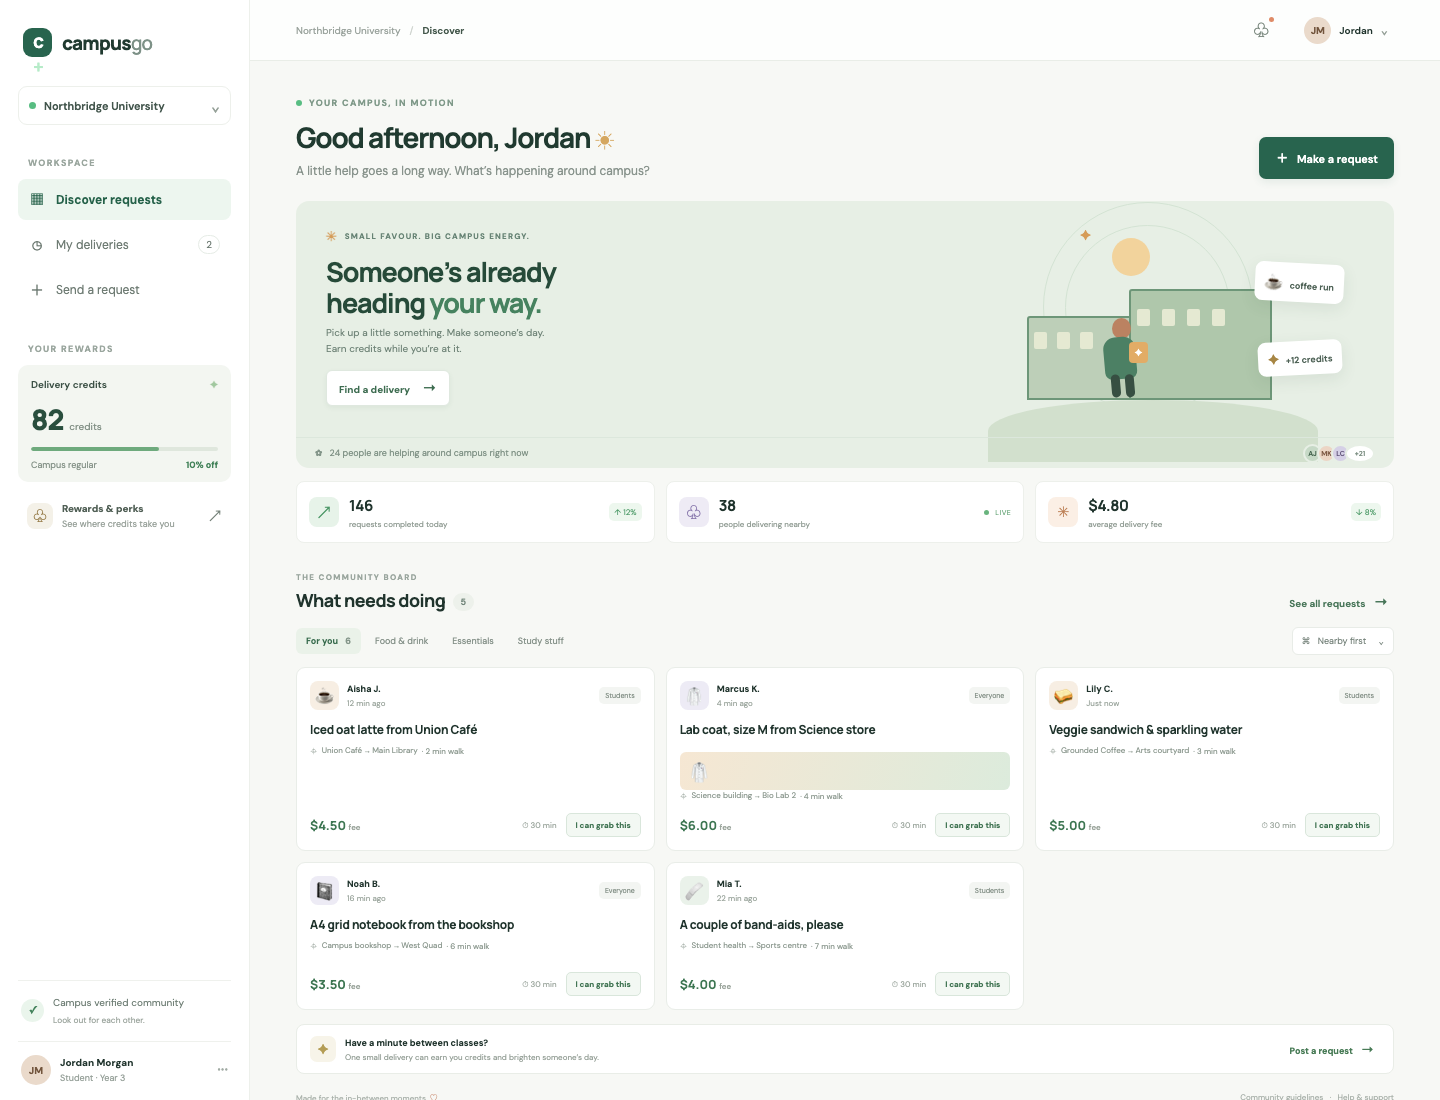
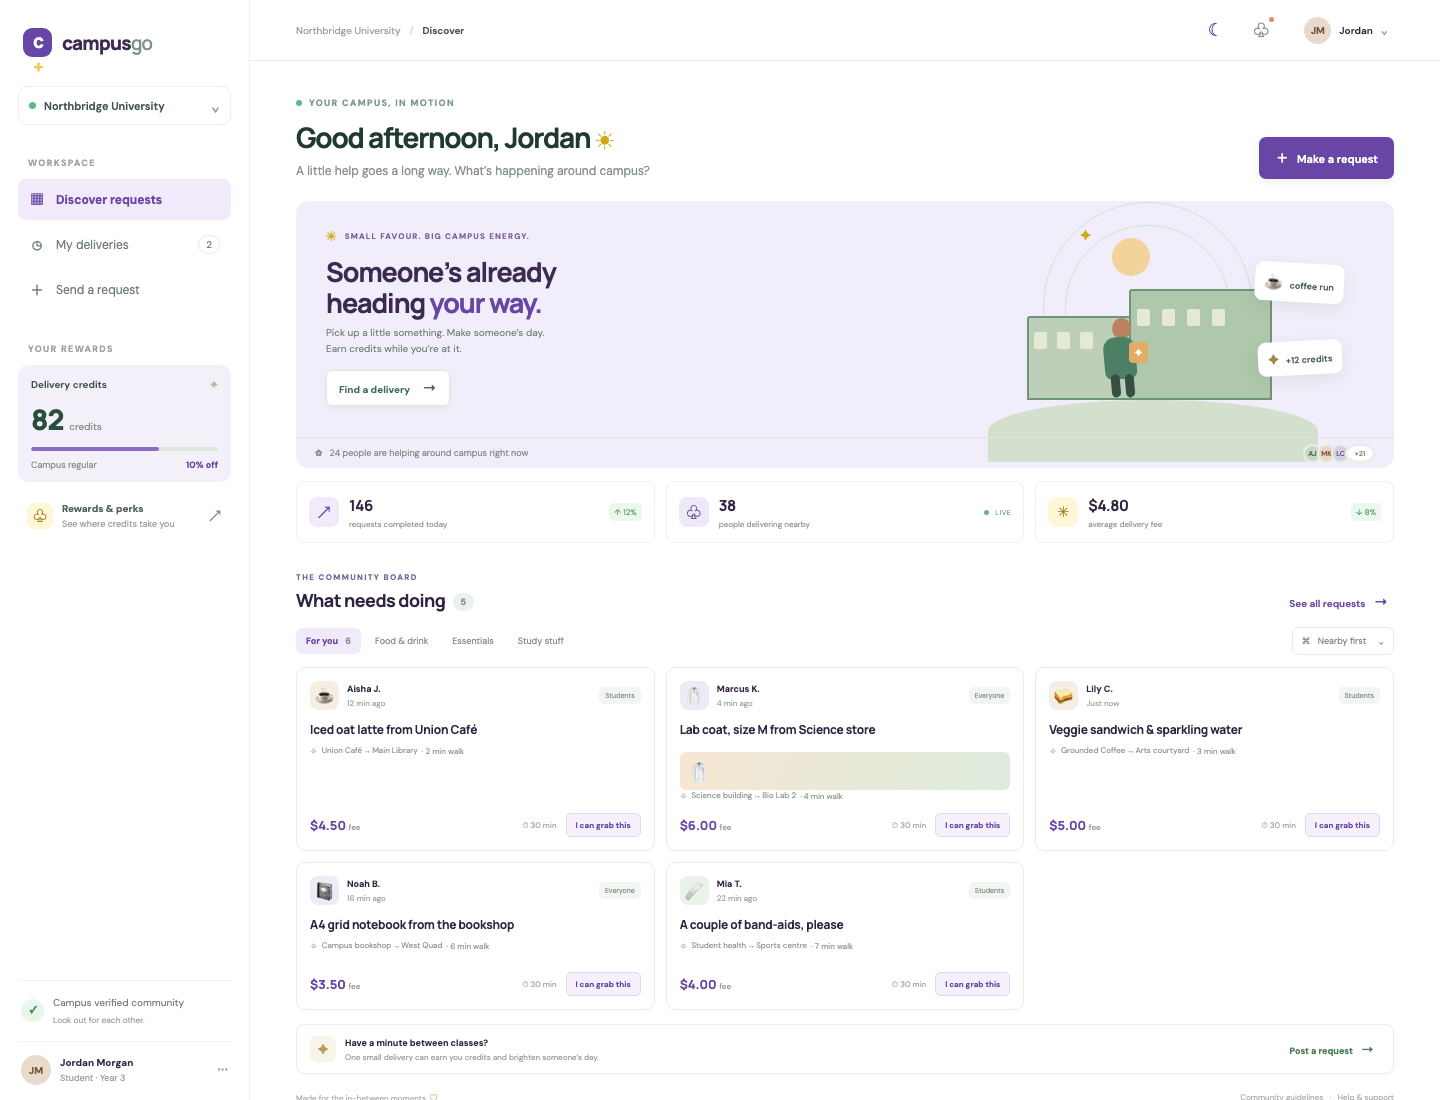
Add personal light and dark themes

diff --git a/theme.css b/theme.css
@@ -1,0 +1,109 @@
+/* CampusGo's default palette: white surfaces with purple and warm yellow accents. */
+:root {
+  --ink: #302541;
+  --deep: #3b2b51;
+  --green: #6846a5;
+  --mint: #f0eafb;
+  --paper: #ffffff;
+  --line: #ebe6f2;
+  --muted: #887f94;
+  --accent: #f2cb45;
+  --accent-soft: #fff7d8;
+  --surface: #ffffff;
+  --surface-muted: #faf8fd;
+}
+
+body { background: var(--paper); color: var(--ink); }
+.sidebar, .topbar, .stat-card, .order-card, .request-form, .settings-card,
+.profile-card, .login-card, .campus-chip, .sort-button, .nav-count,
+.hero-button, .signup-button { background-color: var(--surface); }
+.brand { color: var(--deep); }
+.brand-mark, .primary-button { background-color: #6846a5; }
+.brand-mark span { color: var(--accent); }
+.primary-button:hover { background-color: #533582; }
+.nav-item.active, .filter-tab.active { background: var(--mint); color: #6846a5; }
+.hero-card { background: #f2edfa; }
+.hero-card h2 { color: #3b2b51; }
+.hero-card h2 em, .text-link, .fee, .credit-note span:last-child { color: #6846a5; }
+.hero-kicker, .section-eyebrow { color: #78629b; }
+.hero-emoji, .welcome-row h1 span, .tiny-spark { color: #d1a817; }
+.credit-card { background: #f4f0fa; }
+.credit-meter span { background: #8d6bc6; }
+.stat-icon.mint { background: #f0eafb; color: #6846a5; }
+.stat-icon.peach, .gift-icon { background: #fff7d8; color: #9a7713; }
+.stat-icon.lavender { background: #eee8f8; color: #6846a5; }
+.take-button { background: #f5f0fb; border-color: #e2d8f1; color: #6846a5; }
+.take-button:hover { background: #ece3f7; }
+.filter-tab.active { color: #6846a5; }
+.verified-badge { color: #6846a5; background: #f0eafb; }
+.profile-cover { background: linear-gradient(120deg, #eee7f8, #f6f2fb 60%, #fff5cf); }
+.theme-toggle { color: #6846a5; font-size: 17px; }
+.theme-toggle:hover { color: #d1a817; }
+
+html[data-theme="dark"] {
+  color-scheme: dark;
+  --ink: #f2edf8;
+  --deep: #f2edf8;
+  --paper: #17131e;
+  --line: #383043;
+  --muted: #b2a9be;
+  --mint: #30263d;
+  --surface: #211c2b;
+  --surface-muted: #292335;
+  --accent: #f2d05b;
+  --accent-soft: #3c3420;
+}
+
+html[data-theme="dark"] body { background: var(--paper); color: var(--ink); }
+html[data-theme="dark"] .sidebar,
+html[data-theme="dark"] .topbar,
+html[data-theme="dark"] .stat-card,
+html[data-theme="dark"] .order-card,
+html[data-theme="dark"] .request-form,
+html[data-theme="dark"] .settings-card,
+html[data-theme="dark"] .profile-card,
+html[data-theme="dark"] .login-card,
+html[data-theme="dark"] .campus-chip,
+html[data-theme="dark"] .sort-button,
+html[data-theme="dark"] .nav-count,
+html[data-theme="dark"] .hero-button,
+html[data-theme="dark"] .signup-button { background-color: var(--surface); color: var(--ink); border-color: var(--line); }
+html[data-theme="dark"] .main-content,
+html[data-theme="dark"] .view { color: var(--ink); }
+html[data-theme="dark"] .welcome-row h1,
+html[data-theme="dark"] .page-heading h1,
+html[data-theme="dark"] .section-head h2,
+html[data-theme="dark"] .order-card h3,
+html[data-theme="dark"] .requester strong,
+html[data-theme="dark"] .settings-head h3,
+html[data-theme="dark"] .profile-main h2,
+html[data-theme="dark"] .field-label { color: var(--ink); }
+html[data-theme="dark"] .hero-card,
+html[data-theme="dark"] .preview-card { background: #2b2437; }
+html[data-theme="dark"] .hero-card h2,
+html[data-theme="dark"] .preview-card h3 { color: #f2edf8; }
+html[data-theme="dark"] .hero-card p,
+html[data-theme="dark"] .preview-card > p { color: #c4b9d2; }
+html[data-theme="dark"] .credit-card { background: #292335; color: var(--ink); }
+html[data-theme="dark"] .nav-item.active,
+html[data-theme="dark"] .filter-tab.active { background: #392c4d; color: #d7c2ff; }
+html[data-theme="dark"] .nav-item { color: #c1b8cc; }
+html[data-theme="dark"] .request-form input,
+html[data-theme="dark"] .request-form select,
+html[data-theme="dark"] .settings-card input,
+html[data-theme="dark"] .settings-card select,
+html[data-theme="dark"] .settings-card textarea,
+html[data-theme="dark"] .login-card input,
+html[data-theme="dark"] .fee-input { background: #18141f; color: var(--ink); border-color: var(--line); }
+html[data-theme="dark"] .quick-pick,
+html[data-theme="dark"] .upload-box,
+html[data-theme="dark"] .privacy-hint { background: #292335; color: #d4cadd; border-color: var(--line); }
+html[data-theme="dark"] .bottom-nudge { background: var(--surface); border-color: var(--line); }
+html[data-theme="dark"] .bottom-nudge strong,
+html[data-theme="dark"] .reward-link strong { color: var(--ink); }
+html[data-theme="dark"] .profile-cover { background: linear-gradient(120deg, #392c4d, #2b2437 60%, #3d3524); }
+html[data-theme="dark"] .profile-stats,
+html[data-theme="dark"] .settings-head,
+html[data-theme="dark"] .settings-footer,
+html[data-theme="dark"] .form-section { border-color: var(--line); }
+html[data-theme="dark"] .theme-toggle { color: #f2d05b; }

diff --git a/index.html b/index.html
@@ -4,7 +4,7 @@
   <meta charset="utf-8"><meta name="viewport" content="width=device-width, initial-scale=1"><meta name="theme-color" content="#f7f8f5">
   <title>CampusGo — good things, on the way</title>
   <link rel="preconnect" href="https://fonts.googleapis.com"><link rel="preconnect" href="https://fonts.gstatic.com" crossorigin>
-  <link href="https://fonts.googleapis.com/css2?family=DM+Sans:wght@400;500;600;700&family=Manrope:wght@400;500;600;700;800&display=swap" rel="stylesheet"><link rel="stylesheet" href="/styles.css">
+  <link href="https://fonts.googleapis.com/css2?family=DM+Sans:wght@400;500;600;700&family=Manrope:wght@400;500;600;700;800&display=swap" rel="stylesheet"><link rel="stylesheet" href="/styles.css"><link rel="stylesheet" href="/theme.css">
 </head>
 <body>
   <div class="app-shell">
@@ -23,7 +23,7 @@
       <div class="sidebar-bottom"><div class="safety-note"><span class="shield">✓</span><span>Campus verified community<br><small>Look out for each other.</small></span></div><button class="user-mini" id="profileShortcut"><span class="avatar avatar-user">JM</span><span class="user-details"><strong id="sideName">Jordan Morgan</strong><small id="sideRole">Student · Year 3</small></span><span class="more">···</span></button></div>
     </aside>
     <main class="main-content">
-      <header class="topbar"><div class="mobile-brand"><span class="brand-mark">c<span>+</span></span> campusgo</div><div class="crumb"><span>Northbridge University</span><span class="crumb-slash">/</span><strong id="crumbTitle">Discover</strong></div><div class="top-actions"><button class="icon-button notification" aria-label="Notifications">♧<i></i></button><button class="profile-trigger" id="profileButton"><span class="avatar avatar-user">JM</span><span class="profile-name" id="topName">Jordan</span><span class="chevron">⌄</span></button></div></header>
+      <header class="topbar"><div class="mobile-brand"><span class="brand-mark">c<span>+</span></span> campusgo</div><div class="crumb"><span>Northbridge University</span><span class="crumb-slash">/</span><strong id="crumbTitle">Discover</strong></div><div class="top-actions"><button class="icon-button theme-toggle" id="themeToggle" aria-label="Switch to dark mode" title="Switch theme">☾</button><button class="icon-button notification" aria-label="Notifications">♧<i></i></button><button class="profile-trigger" id="profileButton"><span class="avatar avatar-user">JM</span><span class="profile-name" id="topName">Jordan</span><span class="chevron">⌄</span></button></div></header>
       <section class="view active" id="boardView">
         <div class="welcome-row"><div><div class="eyebrow"><span class="live-dot"></span> YOUR CAMPUS, IN MOTION</div><h1 id="greeting">Good morning, Jordan <span>☀</span></h1><p class="subheading">A little help goes a long way. What’s happening around campus?</p></div><button class="primary-button" data-action="new"><span>＋</span> Make a request</button></div>
         <div class="hero-card"><div class="hero-content"><div class="hero-kicker"><span class="hero-emoji">✳</span> SMALL FAVOUR. BIG CAMPUS ENERGY.</div><h2>Someone’s already<br>heading <em>your way.</em></h2><p>Pick up a little something. Make someone’s day.<br>Earn credits while you’re at it.</p><button class="hero-button" id="heroBrowse">Find a delivery <span>→</span></button></div><div class="hero-art" aria-hidden="true"><div class="art-orbit orbit-one"></div><div class="art-orbit orbit-two"></div><div class="art-sun"></div><div class="art-building building-back"><span></span><span></span><span></span></div><div class="art-building building-front"><span></span><span></span><span></span><span></span></div><div class="art-path"></div><div class="art-person"><div class="person-head"></div><div class="person-body"></div><div class="person-bag">✦</div></div><div class="floating-card float-coffee">☕ <span>coffee run</span></div><div class="floating-card float-credit">✦ <span>+12 credits</span></div><div class="tiny-spark">✦</div></div><div class="hero-footer"><span>✿ &nbsp; 24 people are helping around campus right now</span><span class="avatar-stack"><i>AJ</i><i>MK</i><i>LC</i><b>+21</b></span></div></div>

diff --git a/app.js b/app.js
@@ -26,3 +26,6 @@ $$('.quick-pick').forEach(b=>b.addEventListener('click',()=>{$$('.quick-pick').f
 $('#requestForm').addEventListener('submit',e=>{e.preventDefault();const f=new FormData(e.target),kind=$('.quick-pick.selected').dataset.item.includes('Lab')?'study':$('.quick-pick.selected').dataset.item.includes('charger')?'study':'food';let visibility=f.get('visibility');visibility=visibility==='Everyone on campus'?'Everyone':visibility==='Students only'?'Students':'Staff';const file=$('#photoUpload').files[0];const order={id:`local-${Date.now()}`,name:state.profile.name,initials:initials(state.profile.name),owner:state.profile.email,kind,icon:kind==='food'?'☕':kind==='study'?'📚':'✳',title:f.get('item'),location:`Pickup → ${f.get('dropoff')}`,distance:'Nearby',fee:Number(f.get('fee')),time:'Just now',visibility,deadline:f.get('deadline'),photo:file?'📷':''};state.orders.unshift(order);persist();e.target.reset();$('#fee').value='5.00';$('#photoName').textContent='';renderBoard();showView('board');toast('Your request is live on the community board!')});
 $('#profileForm').addEventListener('submit',e=>{e.preventDefault();state.profile.name=$('#fullName').value.trim();state.profile.role=$('#roleSelect').value;state.profile.year=$('#yearSelect').value;state.profile.email=$('#campusEmail').value.trim();persist();updateProfile();toast('Your profile has been saved.')});$('#signoutButton').addEventListener('click',()=>{$('#loginModal').classList.add('open')});$('#closeLogin').addEventListener('click',()=>$('#loginModal').classList.remove('open'));$('#loginModal').addEventListener('click',e=>{if(e.target.id==='loginModal')e.currentTarget.classList.remove('open')});$('#loginForm').addEventListener('submit',e=>{e.preventDefault();const email=$('#loginEmail').value.trim();state.profile.email=email;const prefix=email.split('@')[0].split(/[._-]/).map(x=>x[0]?.toUpperCase()+x.slice(1)).join(' ');if(prefix)state.profile.name=prefix;persist();updateProfile();$('#loginModal').classList.remove('open');showView('board');toast('Welcome to CampusGo!')});$('#signupButton').addEventListener('click',()=>{$('#loginPassword').value='';$('#loginEmail').focus();toast('Use your university email to create your account.')});
 $('#mineCount').textContent='2';updateProfile();renderBoard();
+function applyTheme(theme){const value=theme==='dark'?'dark':'light';document.documentElement.dataset.theme=value;const button=$('#themeToggle');if(button){button.textContent=value==='dark'?'☀':'☾';button.setAttribute('aria-label',`Switch to ${value==='dark'?'light':'dark'} mode`);button.title=`Switch to ${value==='dark'?'light':'dark'} mode`;}}
+applyTheme(state.profile.theme||'light');
+$('#themeToggle').addEventListener('click',()=>{state.profile.theme=state.profile.theme==='dark'?'light':'dark';applyTheme(state.profile.theme);persist();});

diff --git a/README.md b/README.md
@@ -1,6 +1,6 @@
 # CampusGo
 
-CampusGo is a campus delivery board prototype for students and staff. Community members can post pickup requests, choose who can see them, offer a delivery fee, and accept nearby requests to earn credits.
+CampusGo is a campus delivery board prototype for students and staff. Community members can post pickup requests, choose who can see them, offer a delivery fee, and accept nearby requests to earn credits. The interface uses a white, purple, and yellow palette, with a personal light or dark theme toggle.
 
 ## Run locally
 
